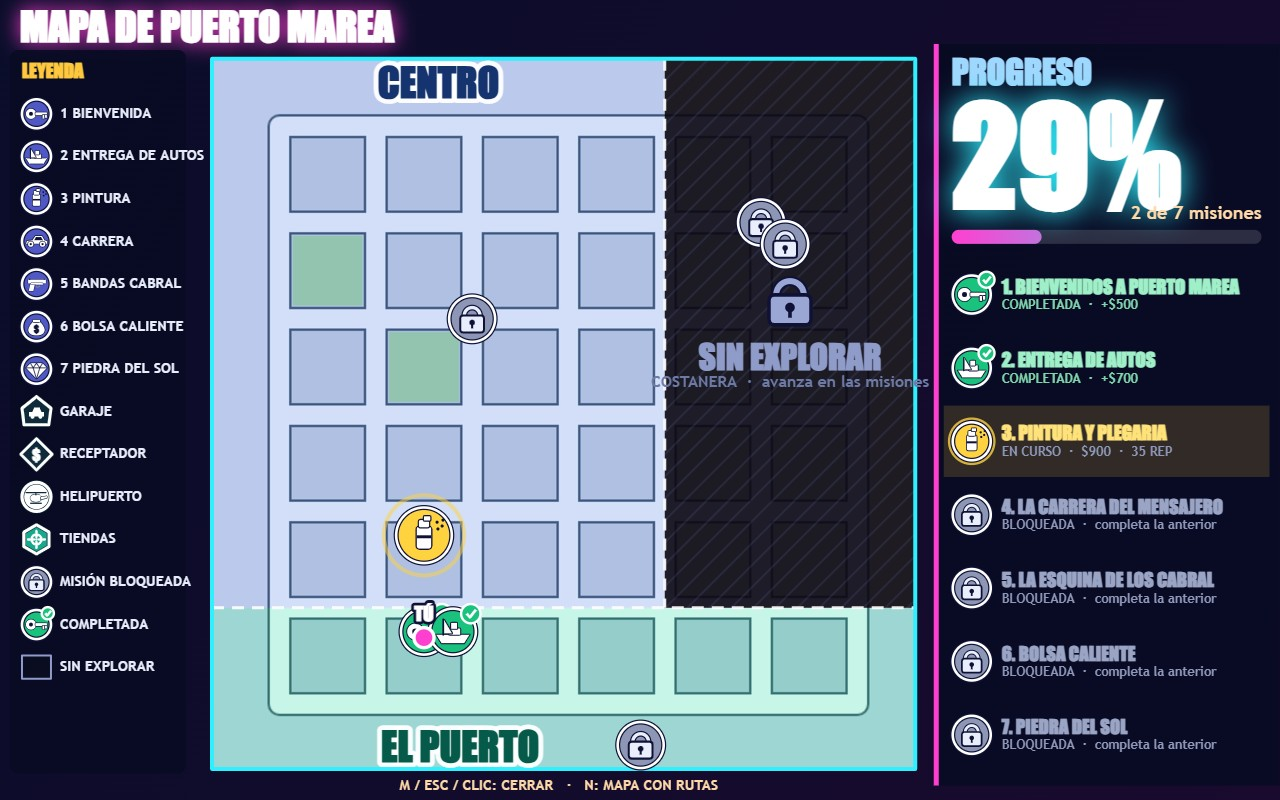
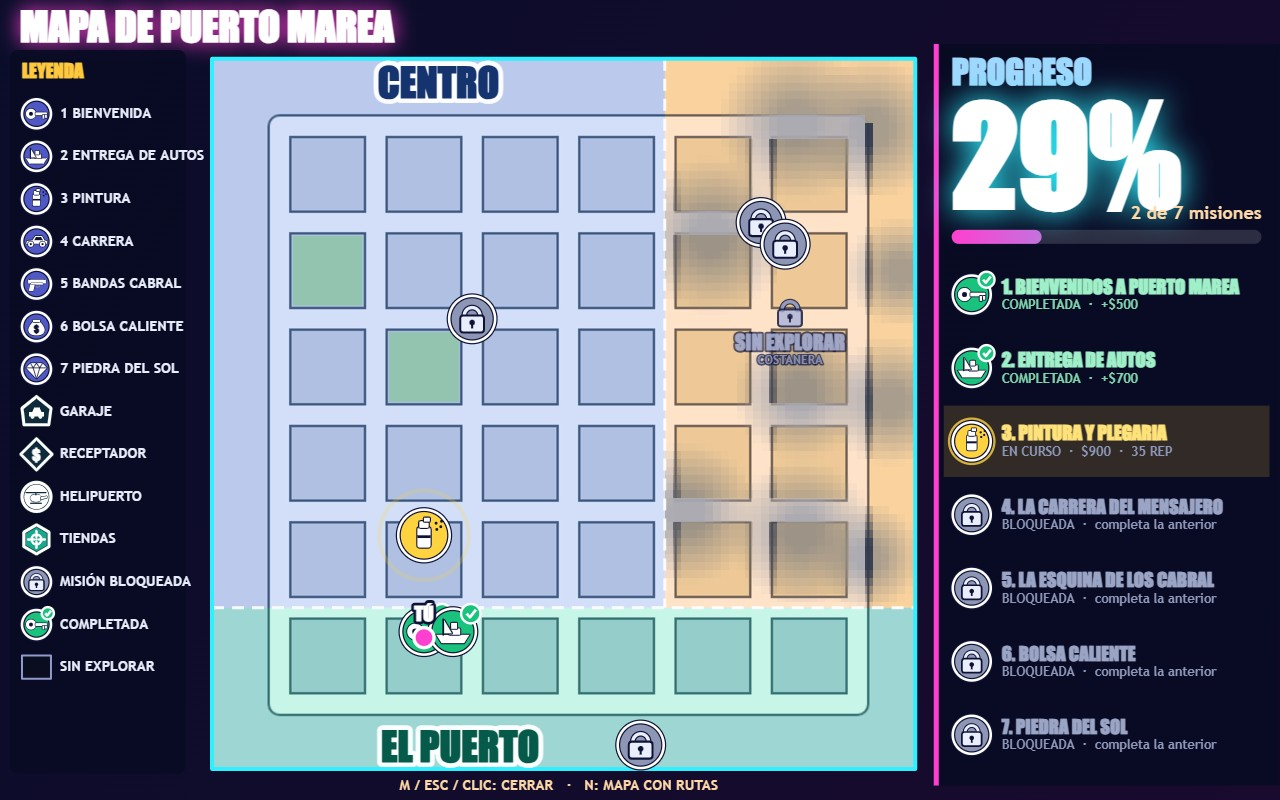
r9 map: soft scattered fog

Changed region(s): [[0.5, 0.0625, 0.7188, 0.7812], [0.2812, 0.5938, 0.375, 0.75]]

diff --git a/game/src/mapscreen.js b/game/src/mapscreen.js
@@ -94,8 +94,22 @@
     // districts still closed: a dark silhouette (the street grid barely shows through) with a hatch
     DIST.forEach((d, id) => {
       if (op[id]) return; const x0 = X(d.x0), y0 = Y(d.z0), w = X(d.x1) - x0, h = Y(d.z1) - y0;
-      c.fillStyle = 'rgba(5,7,22,.90)'; c.fillRect(x0, y0, w, h);
-      c.save(); c.beginPath(); c.rect(x0, y0, w, h); c.clip(); c.strokeStyle = 'rgba(120,140,220,.13)'; c.lineWidth = 2 * U; for (let q = -h; q < w; q += 22 * U) { c.beginPath(); c.moveTo(x0 + q, y0 + h); c.lineTo(x0 + q + h, y0); c.stroke(); } c.restore();
+      // soft scattered fog: a few jittered blobs over the district, drawn at low resolution (pixel mosaic of the real map, darkened)
+      const cell = 8 * U, lw = Math.max(2, Math.ceil(w / cell)), lh = Math.max(2, Math.ceil(h / cell)), s = 1 / cell;
+      const lo = document.createElement('canvas'); lo.width = lw; lo.height = lh; const l = lo.getContext('2d');
+      if (base) { l.imageSmoothingEnabled = true; l.drawImage(base, (ox - (A.E + CX) * k - x0) * s, (oy - (A.E + CZ) * k - y0) * s, A.E * 2 * k * s, A.E * 2 * k * s); }
+      l.fillStyle = 'rgba(14,18,52,.36)'; l.fillRect(0, 0, lw, lh);
+      l.globalCompositeOperation = 'destination-in';
+      const m = document.createElement('canvas'); m.width = lw; m.height = lh; const q = m.getContext('2d');
+      const hs = (a, b) => { const v = Math.sin(a * 127.1 + b * 311.7 + id * 74.7) * 43758.5453; return v - Math.floor(v); };
+      const gx = 3, gy = id === 2 ? 2 : 4;
+      for (let i = 0; i < gx; i++) for (let j = 0; j < gy; j++) {
+        if (!(i === 1 && j === Math.floor(gy / 2)) && hs(i, j) < 0.3) continue;
+        const bx = (i + 0.2 + hs(i + 5, j) * 0.6) / gx * lw, by = (j + 0.2 + hs(i, j + 9) * 0.6) / gy * lh, br = Math.min(lw / gx, lh / gy) * (0.62 + hs(i + 2, j + 2) * 0.4);
+        const g = q.createRadialGradient(bx, by, br * 0.25, bx, by, br); g.addColorStop(0, 'rgba(0,0,0,.95)'); g.addColorStop(1, 'rgba(0,0,0,0)'); q.fillStyle = g; q.fillRect(0, 0, lw, lh);
+      }
+      l.drawImage(m, 0, 0);
+      c.save(); c.beginPath(); c.rect(x0, y0, w, h); c.clip(); c.imageSmoothingEnabled = false; c.drawImage(lo, x0, y0, lw * cell, lh * cell); c.restore();
     });
     c.strokeStyle = 'rgba(255,255,255,.9)'; c.lineWidth = 3 * U; c.setLineDash([12 * U, 8 * U]);
     c.beginPath(); c.moveTo(X(80), Y(-296)); c.lineTo(X(80), Y(160)); c.moveTo(X(-296), Y(160)); c.lineTo(X(288), Y(160)); c.stroke(); c.setLineDash([]);
@@ -105,7 +119,7 @@
     DIST.forEach((d, id) => {
       const x = X(d.cx);
       if (op[id]) { const y = Y(id === 2 ? 276 : -276); c.font = '900 ' + Math.round(40 * U) + 'px ' + FONT; c.lineWidth = 9 * U; c.strokeStyle = 'rgba(255,255,255,.95)'; c.strokeText(d.n, x, y); c.fillStyle = ['#7a2f06', '#14336f', '#065a4a'][id]; c.fillText(d.n, x, y); }
-      else { const cy = Y(id === 2 ? 228 : -70); padlock(c, x, cy - 30 * U, 30 * U, '#9aa6d4'); c.font = '900 ' + Math.round(34 * U) + 'px ' + FONT; c.fillStyle = '#8f9bc8'; c.fillText('SIN EXPLORAR', x, cy + 26 * U); c.font = '700 ' + Math.round(16 * U) + 'px ' + BODY; c.fillStyle = '#6e7aa6'; c.fillText(d.n + '  ·  avanza en las misiones', x, cy + 52 * U); }
+      else { const cy = Y(id === 2 ? 228 : -70); c.globalAlpha = 0.8; padlock(c, x, cy - 18 * U, 17 * U, '#aab4dc'); c.font = '900 ' + Math.round(20 * U) + 'px ' + FONT; c.fillStyle = '#b4bde0'; c.lineWidth = 4 * U; c.strokeStyle = 'rgba(15,18,54,.85)'; c.strokeText('SIN EXPLORAR', x, cy + 12 * U); c.fillText('SIN EXPLORAR', x, cy + 12 * U); c.font = '700 ' + Math.round(12 * U) + 'px ' + BODY; c.fillStyle = '#98a3cf'; c.lineWidth = 3 * U; c.strokeText(d.n, x, cy + 30 * U); c.fillText(d.n, x, cy + 30 * U); c.globalAlpha = 1; }
     });
     // places: garage, fence, helipad, shops (only in open districts)
     const lm = CW.world.landmarks, ir = 15 * U, show = (x, z) => op[CW.districtAt(x, z)];
